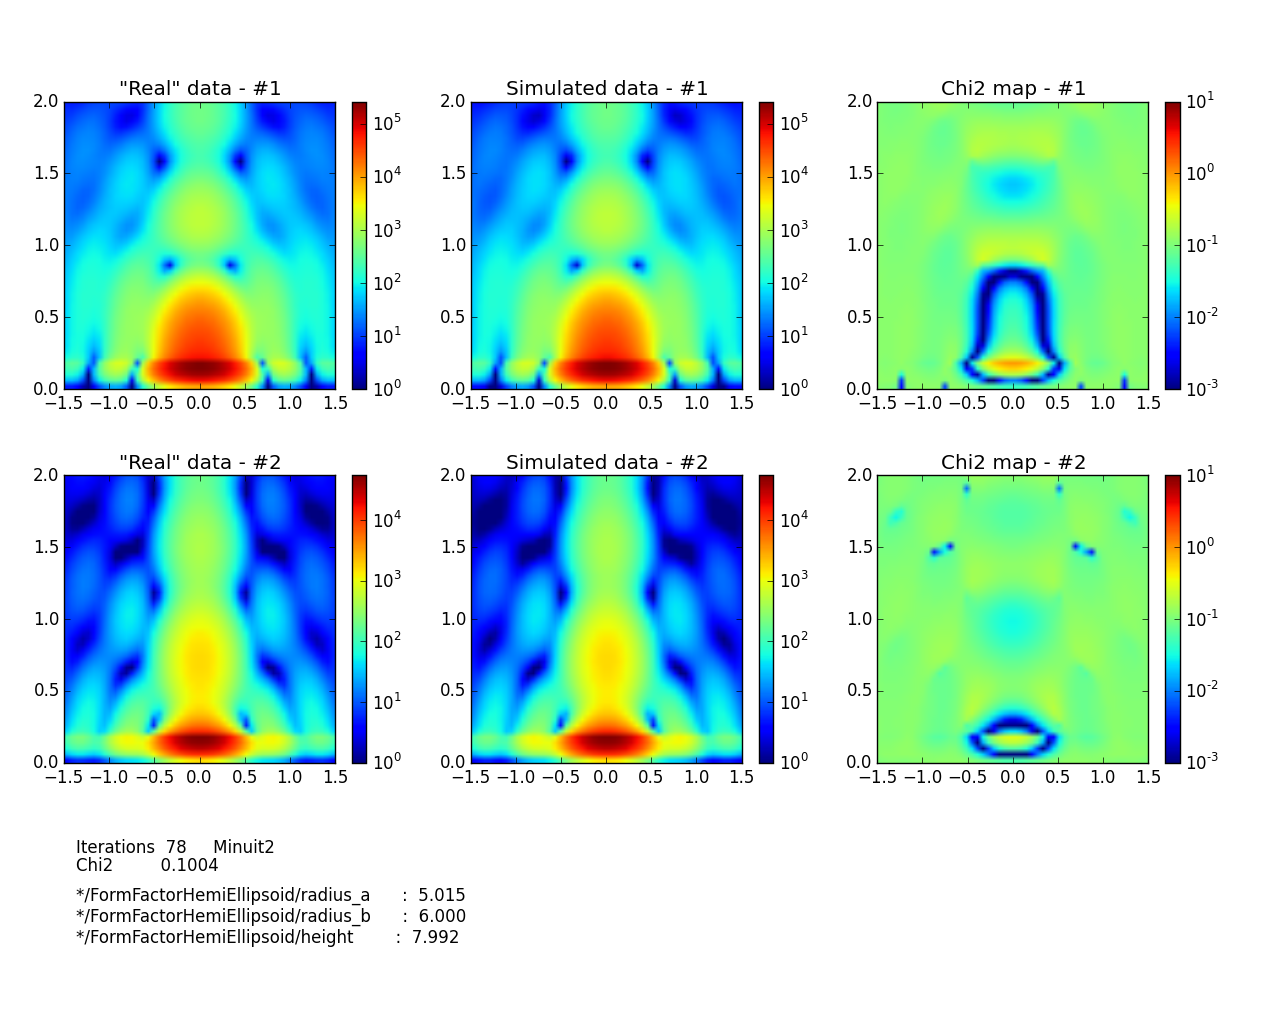
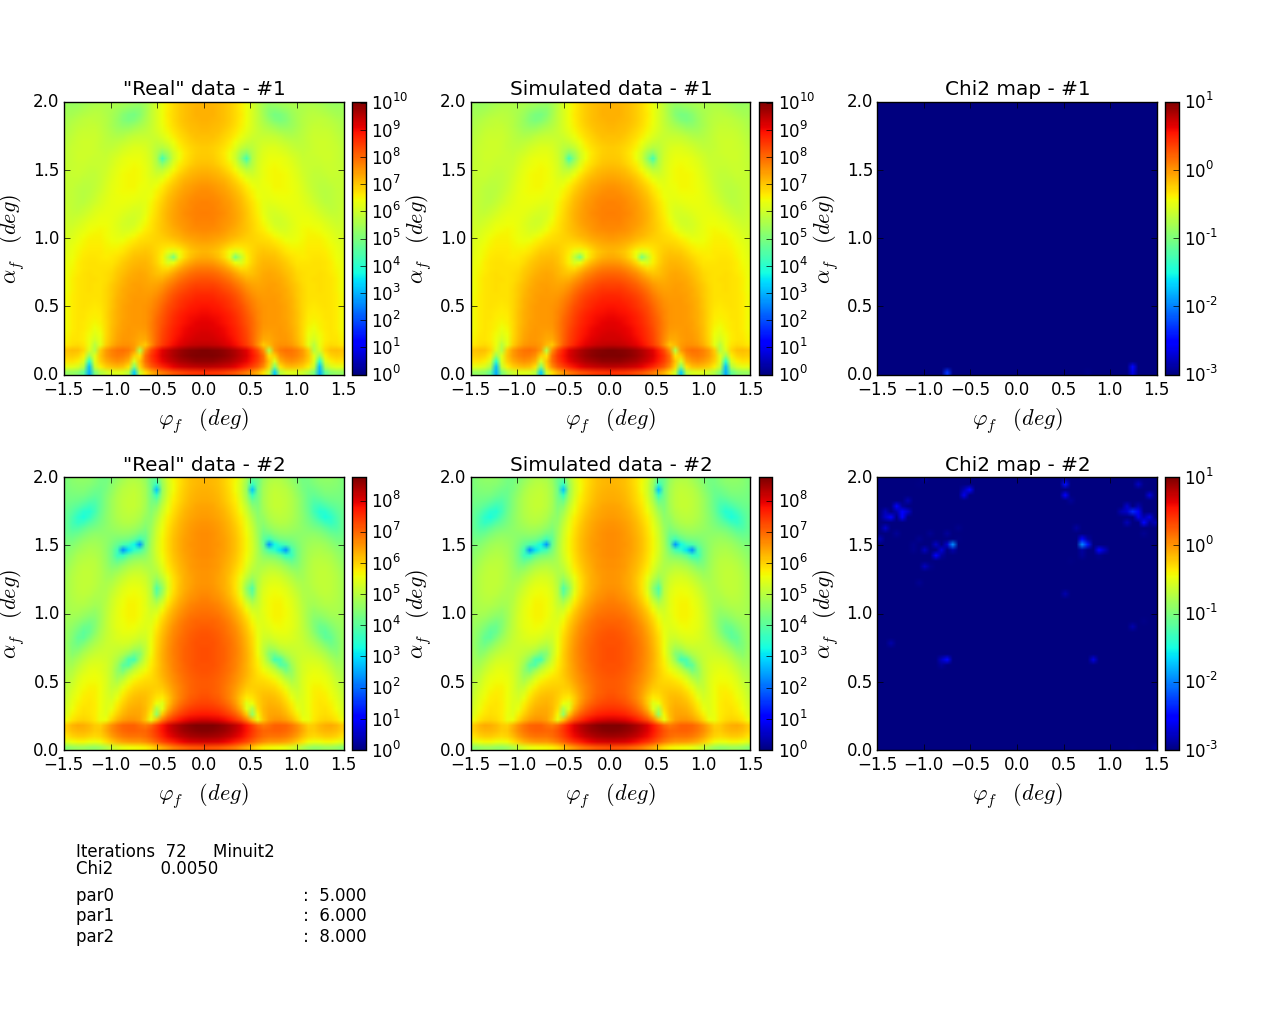
Sample model reference: "fitting" revised.

diff --git a/static/files/python/fitting/ex08_SimultaneousFitOfTwoDatasets/SimultaneousFitOfTwoDatasets.py b/static/files/python/fitting/ex08_SimultaneousFitOfTwoDatasets/SimultaneousFitOfTwoDatasets.py
@@ -80,31 +80,23 @@ class DrawObserver(ba.IFitObserver):
         self.fig.canvas.draw()
         plt.ion()
 
-    def plot_colormap(self, data, title, min=1.0, max=1e6):
-        im = plt.imshow(
-            data.getArray(),
-            norm=matplotlib.colors.LogNorm(min, max),
-            extent=[data.getXmin()/deg, data.getXmax()/deg,
-                    data.getYmin()/deg, data.getYmax()/deg],
-            aspect='auto')
-        plt.colorbar(im)
-        plt.title(title)
-
     def plot_datasets(self, fit_suite, canvas):
         for i_dataset in range(0, fit_suite.numberOfFitObjects()):
-            real_data = fit_suite.getRealData(i_dataset)
-            simul_data = fit_suite.getSimulationData(i_dataset)
-            chi2_map = fit_suite.getChiSquaredMap(i_dataset)
+            real_data = fit_suite.experimentalData(i_dataset)
+            simul_data = fit_suite.simulationResult(i_dataset)
+            chi2_map = fit_suite.relativeDifference(i_dataset)
+
+            zmax = real_data.histogram2d().getMaximum()
 
             plt.subplot(canvas[i_dataset*3])
-            self.plot_colormap(real_data, "\"Real\" data - #"+str(i_dataset+1),
-                               min=1.0, max=real_data.getMaximum())
+            ba.plot_colormap(real_data, title="\"Real\" data - #"+str(i_dataset+1),
+                               zmin=1.0, zmax=zmax, zlabel="")
             plt.subplot(canvas[1+i_dataset*3])
-            self.plot_colormap(simul_data, "Simulated data - #"+str(i_dataset+1),
-                               min=1.0, max=real_data.getMaximum())
+            ba.plot_colormap(simul_data, title="Simulated data - #"+str(i_dataset+1),
+                               zmin=1.0, zmax=zmax, zlabel="")
             plt.subplot(canvas[2+i_dataset*3])
-            self.plot_colormap(chi2_map, "Chi2 map - #"+str(i_dataset+1),
-                               min=0.001, max=10.0)
+            ba.plot_colormap(chi2_map, title="Chi2 map - #"+str(i_dataset+1),
+                               zmin=0.001, zmax=10.0, zlabel="")
 
     def plot_fit_parameters(self, fit_suite, canvas):
         # fit parameters
@@ -125,7 +117,7 @@ class DrawObserver(ba.IFitObserver):
         # most of the space
         canvas = matplotlib.gridspec.GridSpec(
             3, 3, width_ratios=[1, 1, 1], height_ratios=[4, 4, 1])
-        canvas.update(left=0.05, right=0.95, hspace=0.4, wspace=0.2)
+        canvas.update(left=0.05, right=0.95, hspace=0.5, wspace=0.2)
 
         self.plot_datasets(fit_suite, canvas)
         self.plot_fit_parameters(fit_suite, canvas)

diff --git a/content/documentation/sample-models/fitting/fit-galaxi-data/index.md b/content/documentation/sample-models/fitting/fit-galaxi-data/index.md
@@ -8,24 +8,24 @@ weight = 60
 This is an example of real data fit. We use our own measurements performed at the laboratory diffractometer [GALAXI](http://www.fz-juelich.de/jcns/jcns-2//DE/Leistungen/GALAXI/_node.html) in Forschungszentrum Jülich. The example supports [Importing experimental data]({{% relref "documentation/working-with-python/importing-experimental-data/index.md" %}}) tutorial.
 
 {{< galleryscg >}}
-{{< figscg src="FitGALAXIData_setup.jpg" width="450px" caption="Real-space model">}}
-{{< figscg src="FitGALAXIData.png" width="600px" caption="Intensity image">}}
+{{< figscg src="FitGALAXIData_setup.jpg" width="350px" caption="Real-space model">}}
+{{< figscg src="FitGALAXIData.png" width="350px" caption="Fit window">}}
 {{< /galleryscg >}}
 
-#### Python script:
-The file `SampleBuilder.py` (see below) contains a sample description.
-
+* The file `SampleBuilder.py` contains a sample description.
 * Sample represents a 4 layer system (substrate, teflon, hmdso and air) with Ag nanoparticles placed inside the hmdso layer on top of the teflon layer.
 * Sample is generated with the help of `SampleBuilder`, which is able to create samples depending from registered parameters.
 * Nanoparticles have a broad Log-normal size distribution.
-{{% highlightfile file="/static/files/python/fitting/ex10_FitGALAXIData/SampleBuilder.py" language="python" %}}
-\
-\
-The file `FitGALAXIData.py` (see below) contains parts related to detector initialization, simulation setup, importing the data and finally fit engine setup.
 
+{{% highlightfile file="/static/files/python/fitting/ex10_FitGALAXIData/SampleBuilder.py" language="python" %}}
+
+<hr>
+
+* The file `FitGALAXIData.py` contains parts related to detector initialization, simulation setup, importing the data and finally fit engine setup.
 * The rectangular detector is created to represent PILATUS detector from experiment (line 20).
 * In simulation settings beam is initialized and the detector is assigned to the simulation. Region of interest is assigned at line 40 to simulate only small rectangular window. Additionally, a rectangular mask is added to exclude reflected beam from the analysis (line 42).
 * Real data is loaded from tiff file into histogram representing the detector.
 * `run_fitting()` function contains the initialization of fitting kernel: creattion of simulation, assignment of fit pair, fit parameters selection (line 62).
 * Two minimizer strategy is selected - 'Genetic' minimizer starts to investigate broad parameter space, 'Minuit2' minimizer continues to find the local minima.
+
 {{% highlightfile file="/static/files/python/fitting/ex10_FitGALAXIData/FitGALAXIData.py" language="python" %}}

diff --git a/content/documentation/sample-models/fitting/simultaneous-fit-of-two-datasets/index.md b/content/documentation/sample-models/fitting/simultaneous-fit-of-two-datasets/index.md
@@ -11,13 +11,12 @@ Suppose that we have a sample measured twice for two different incident angles. 
 
 To do this, we define one dataset (a pair of real data and corresponding simulation model) for the first incidence angle and another pair of (real data, simulation model) for the second incidence angle. We add both pairs to the `FitSuite` and run the fitting as usual.
 
-* In the given [script]({{% relref "#python-script" %}})) we simulate hemi-ellipsoids on top of a substrate without interference. At lines 160-162 we define 3 fitting parameters: `RadiusX` and `Height` are parameters to find, `RadiusY` is fixed.
-* At lines 145-153 we define two fixed incident alpha angles equal to $0.1^{\circ}$ and $0.4^{\circ}$ and generate two datasets. These datasets are then used to initialize `FitSuite` via `addSimulationAndRealData` method.
+* In the given script we simulate hemi-ellipsoids on top of a substrate without interference. At lines 152-154 we define 3 fitting parameters: `RadiusX` and `Height` are parameters to find, `RadiusY` is fixed.
+* At lines 137-145 we define two fixed incident alpha angles equal to $0.1^{\circ}$ and $0.4^{\circ}$ and generate two datasets. These datasets are then used to initialize `FitSuite` via `addSimulationAndRealData` method.
 * The majority of the code is located in custom `DrawObserver` class defined at line 68, which plots the fit progress for both datasets simultaneously every 10th iteration.
 
 {{< galleryscg >}}
-{{< figscg src="SimultaneousFitOfTwoDatasets.png" width="600px" caption="Intensity images">}}
+{{< figscg src="SimultaneousFitOfTwoDatasets.png" width="600px" caption="Fit window">}}
 {{< /galleryscg >}}
 
-#### Python script:
 {{% highlightfile file="/static/files/python/fitting/ex08_SimultaneousFitOfTwoDatasets/SimultaneousFitOfTwoDatasets.py" language="python" %}}

diff --git a/content/documentation/sample-models/fitting/fit-along-slices/index.md b/content/documentation/sample-models/fitting/fit-along-slices/index.md
@@ -11,13 +11,12 @@ Such approach uses much less CPU while still giving a chance to find optimal sam
 
 Technically, the idea is to mask the whole detector except thin lines, one vertical and one horizontal, representing slices. This will make the simulation and the fitting procedure to calculate only along these indicated slices.
 
-* In the given scrip (see the [Python script]({{% relref "#python-script" %}})) we simulate cylinders on top of a substrate without interference. The fitting procedure looks for the cylinder's height and radius.
-* Lines 180, 181, 182 demonstrate the code you need for masking the whole detector and then unmasking the two desired slices: vertical line at $\phi=0.0^{\circ}$, and horizontal line at $\alpha=0.2^{\circ}$.
-* The majority of the code is located in custom `DrawObserver` class (defined in line 70, and invoked at lines 188, 189), which plots the fit progress along slices every 5th iteration.
+* In the given script we simulate cylinders on top of a substrate without interference. The fitting procedure looks for the cylinder's height and radius.
+* Lines 169, 170, 171 demonstrate the code you need for masking the whole detector and then unmasking the two desired slices: vertical line at $\phi=0.0^{\circ}$, and horizontal line at $\alpha=0.2^{\circ}$.
+* The majority of the code is located in custom `DrawObserver` class (defined in line 70, and invoked at lines 177, 178), which plots the fit progress along slices every 5th iteration.
 
 {{< galleryscg >}}
-{{< figscg src="FitAlongSlices.png" width="600px" caption="Intensity image">}}
+{{< figscg src="FitAlongSlices.png" width="600px" caption="Fit window">}}
 {{< /galleryscg >}}
 
-#### Python script:
 {{% highlightfile file="/static/files/python/fitting/ex07_FitAlongSlices/FitAlongSlices.py" language="python" %}}

diff --git a/content/documentation/sample-models/fitting/fit-with-masks/index.md b/content/documentation/sample-models/fitting/fit-with-masks/index.md
@@ -14,14 +14,13 @@ simulation.addMask(Rectangle(x1, y1, x2, y2), mask_value)
 
 where `Rectangle` is related to the shape of the mask in detector coordinates, `mask_value` can be either `True` (area is excluded from the simulation and fit) or `False` (area will stay in the simulation and will be taken into account in $\chi^2$ calculations during the fit). There can be an arbitrary number of masks of various shapes added to the simulation one after another. Each subsequent mask overrides the previously defined `mask_value` in the given area.
 
-* In the given script (see the [Python script]({{% relref "#python-script" %}})) we simulate cylinders on top of substrate without interference. The fitting procedure looks for the cylinder's height and radius.
+* In the given script we simulate cylinders on top of substrate without interference. The fitting procedure looks for the cylinder's height and radius.
 * Line 124 contains a call to `add_mask_to_simulation` function which applies masks to the detector in such a way, that simulated image looks like a Pac-Man from the ancient arcade game.
 * In this function we start from masking the whole detector (line 82) and then we unmask the area of an elliptic shape (line 85) to simulate Pacman's head. Then we keep adding masks of different shapes to get the final picture.
 
 
 {{< galleryscg >}}
-{{< figscg src="FitWithMasks.png" width="600px" caption="Intensity image">}}
+{{< figscg src="FitWithMasks.png" width="600px" caption="Fit window">}}
 {{< /galleryscg >}}
 
-#### Python script:
 {{% highlightfile file="/static/files/python/fitting/ex05_FitWithMasks/FitWithMasks.py" language="python" %}}

diff --git a/content/documentation/sample-models/fitting/fit-cylinders-and-prisms/index.md b/content/documentation/sample-models/fitting/fit-cylinders-and-prisms/index.md
@@ -5,7 +5,7 @@ weight = 20
 
 ### Fit cylinders and prisms
 
-In this example we use a simple geometry: cylinders and prisms in air layer, deposited on a substrate layer, with no interference. There are 4 fitting parameters:  
+In this example we use a simple geometry: cylinders and prisms in air layer, deposited on a substrate layer, with no interference. There are 4 fitting parameters:
 
 1. radius of cylinders
 2. height of cylinders
@@ -15,8 +15,7 @@ In this example we use a simple geometry: cylinders and prisms in air layer, dep
 Our reference data are a “noisy” two-dimensional intensity map obtained from the simulation of the same geometry with a fixed value of $5$ nm for the height and radius of cylinders and for the height of prisms which have a $10$-nanometer-long side length. Then we run our fitting using default minimizer settings starting with a cylinder’s height of $4$ nm, a cylinder’s radius of $6$ nm, a prism’s half side of $6$ nm and a height equal to $4$ nm. As a result, the fitting procedure is able to find the correct value of $5$ nm for all four parameters.
 
 {{< galleryscg >}}
-{{< figscg src="FitCylindersPrisms.png" width="600px" caption="Intensity image">}}
+{{< figscg src="FitCylindersPrisms.png" width="600px" caption="Fit window">}}
 {{< /galleryscg >}}
 
-#### Python script:
 {{% highlightfile file="/static/files/python/fitting/ex02_FitBasics/FitCylindersPrisms.py" language="python" %}}

diff --git a/content/documentation/sample-models/fitting/sample-parameters-intro/index.md b/content/documentation/sample-models/fitting/sample-parameters-intro/index.md
@@ -5,7 +5,7 @@ weight = 10
 
 ### Working with sample parameters
 
-This example shows how to create a sample with fixed parameters and then change these parameters on the fly during runtime. The example doesn't contain any fitting and serves as a gentle introduction to other fitting examples. See the [Python script]({{% relref "#python-script" %}}) below:
+This example shows how to create a sample with fixed parameters and then change these parameters on the fly during runtime. The example doesn't contain any fitting and serves as a gentle introduction to other fitting examples.
 
 * Lines 14-42: the sample representing cylinders and prisms on top of substrate without interference is created.
 * Lines 45-53: beam and detector parameters are defined.
@@ -17,8 +17,7 @@ This example shows how to create a sample with fixed parameters and then change 
 * Lines 97-98: both dimensions of the prism (half_side and height) will be changed.
 
 {{< galleryscg >}}
-{{< figscg src="SampleParametersIntro.png" width="600px" caption="Intensity image">}}
+{{< figscg src="SampleParametersIntro.png" width="600px" caption="Intensity images">}}
 {{< /galleryscg >}}
 
-#### Python script:
 {{% highlightfile file="/static/files/python/fitting/ex01_SampleParametersIntro/SampleParametersIntro.py" language="python" %}}
